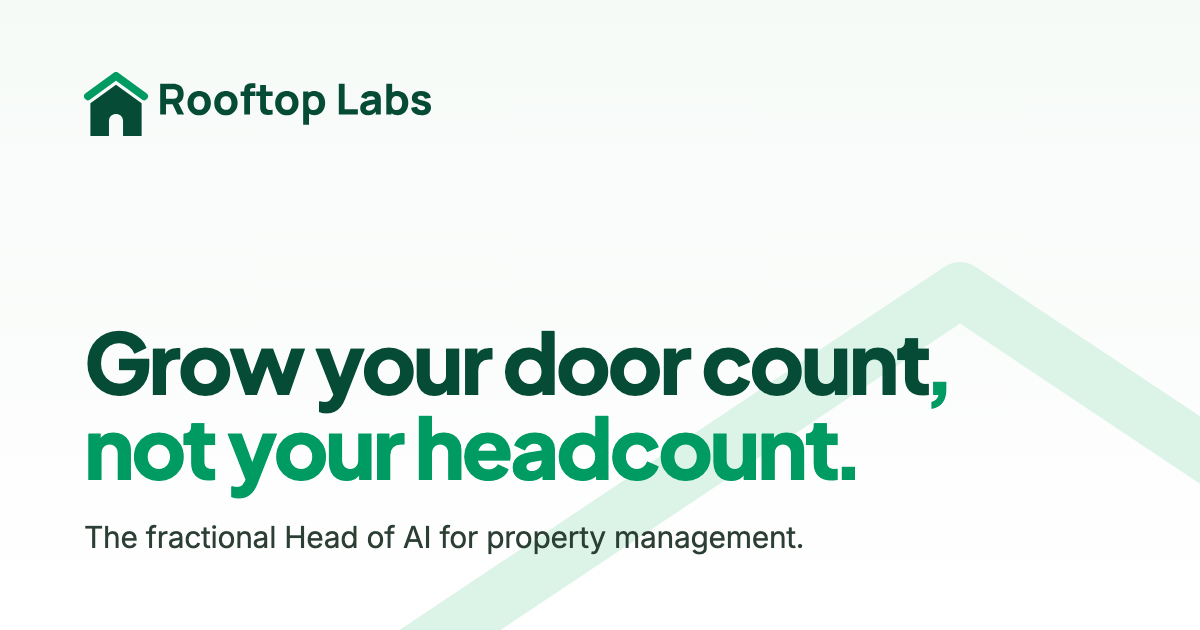
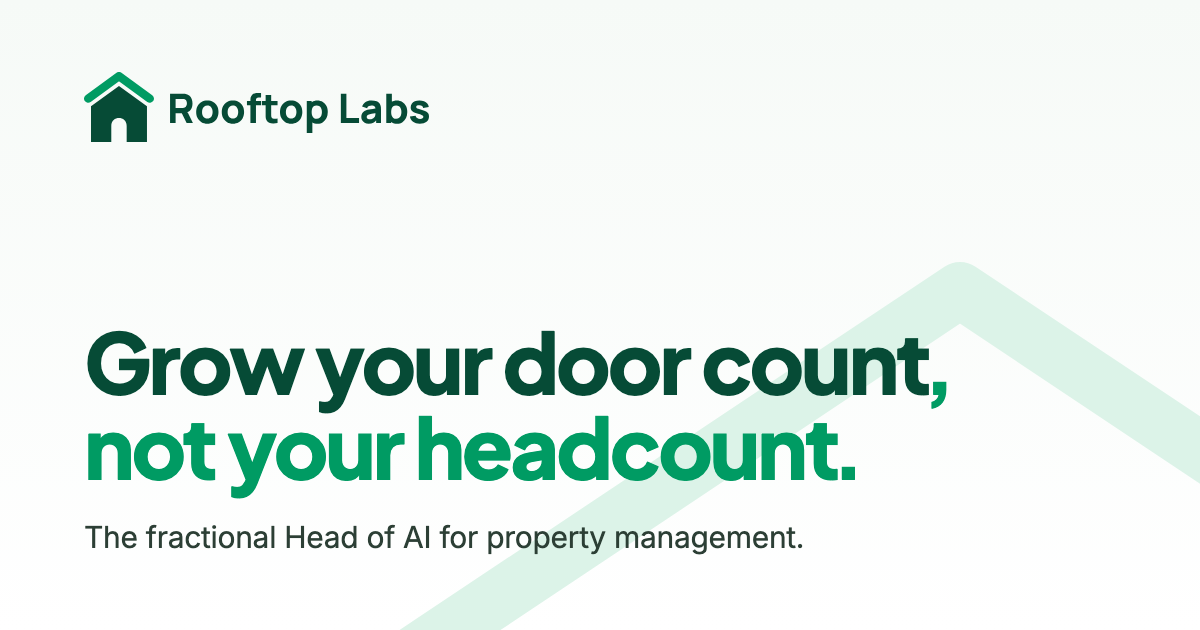
Balance the horizontal lockup
In the source artwork the wordmark's capitals are 48% of the icon's
height and centered well above it, so the name reads large and rides
high. Re-set the wordmark at 42% (scale 0.875), centered just below
the icon's midpoint where the house carries the weight, with a
slightly wider gap. brand/site/ holds the result as SVG in color and
reverse. The header and footer logos grow a little to keep the name
legible, and the share image uses the new lockup.

Changed region(s): [[0.0617, 0.1206, 0.37, 0.2413]]

diff --git a/README.md b/README.md
@@ -26,7 +26,7 @@ Submissions go to [Formspree](https://formspree.io). The endpoint lives in `src/
 
 ## Brand
 
-- **Logo**: the approved artwork lives in `brand/` (SVG, every layout and treatment). `src/components/Logo.astro` inlines the horizontal lockup and icon so their colors follow the theme: the color treatment in light mode, the reverse in dark mode. `public/favicon.svg` does the same with a media query.
+- **Logo**: the approved artwork lives in `brand/` (SVG, every layout and treatment). `src/components/Logo.astro` inlines the icon and a balanced horizontal lockup (see `brand/site/`) so their colors follow the theme: the color treatment in light mode, the reverse in dark mode. `public/favicon.svg` does the same with a media query.
 - **Colors**: the logo's greens (forest `#064B36`, green `#009B63`, mint `#55D99C`) are the brand primitives in `src/styles/global.css`.
 - **Light and dark themes**: components use only the semantic tokens in `src/styles/global.css`. Each token defines both theme values with `light-dark()`, and lightningcss lowers that for older browsers. The page follows the system theme. The header toggle pins a choice in `localStorage`, and an inline script in `Base.astro` applies it before first paint.
 - **Type**: Plus Jakarta Sans for headlines and UI (it matches the wordmark), and Inter for running text (legibility).

diff --git a/brand/site/README.md b/brand/site/README.md
@@ -1,0 +1,6 @@
+# Site lockup
+
+The horizontal lockup the website uses. It re-sets the official wordmark
+against the icon: the capitals are 42% of the icon's height (the source file
+uses 48%) and sit centered just below the icon's midpoint, so the name no longer
+rides high. `src/components/Logo.astro` renders the same geometry.
